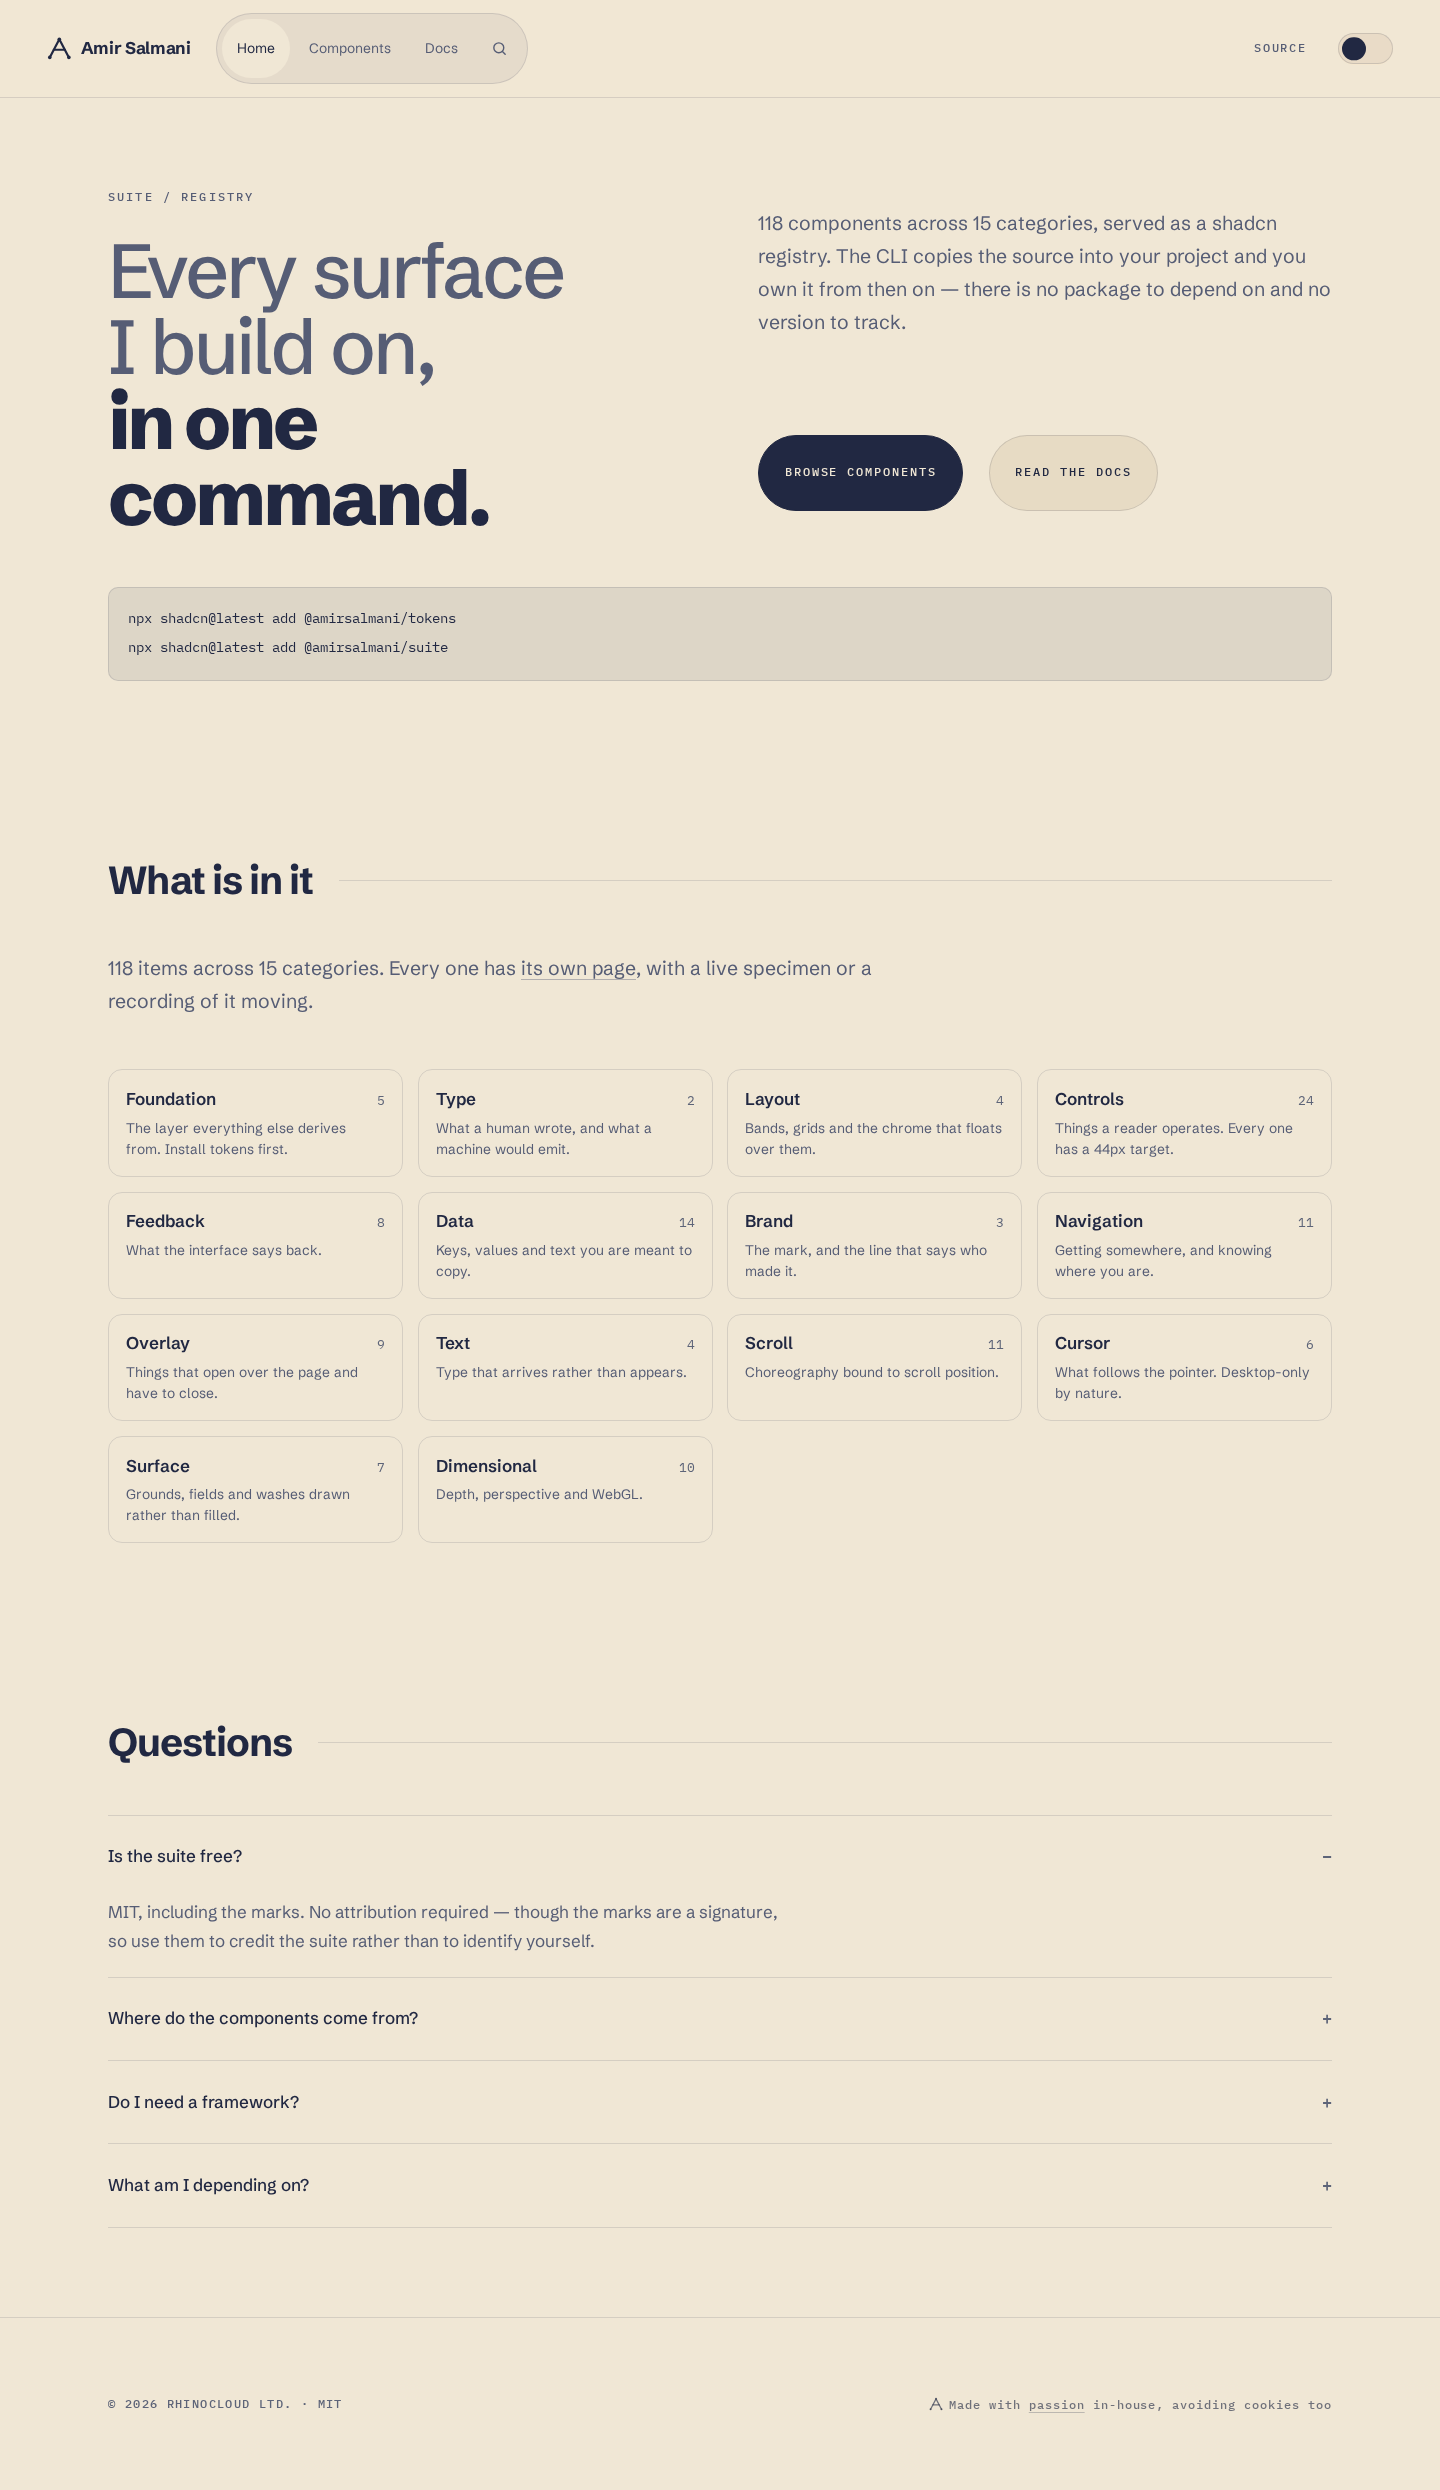
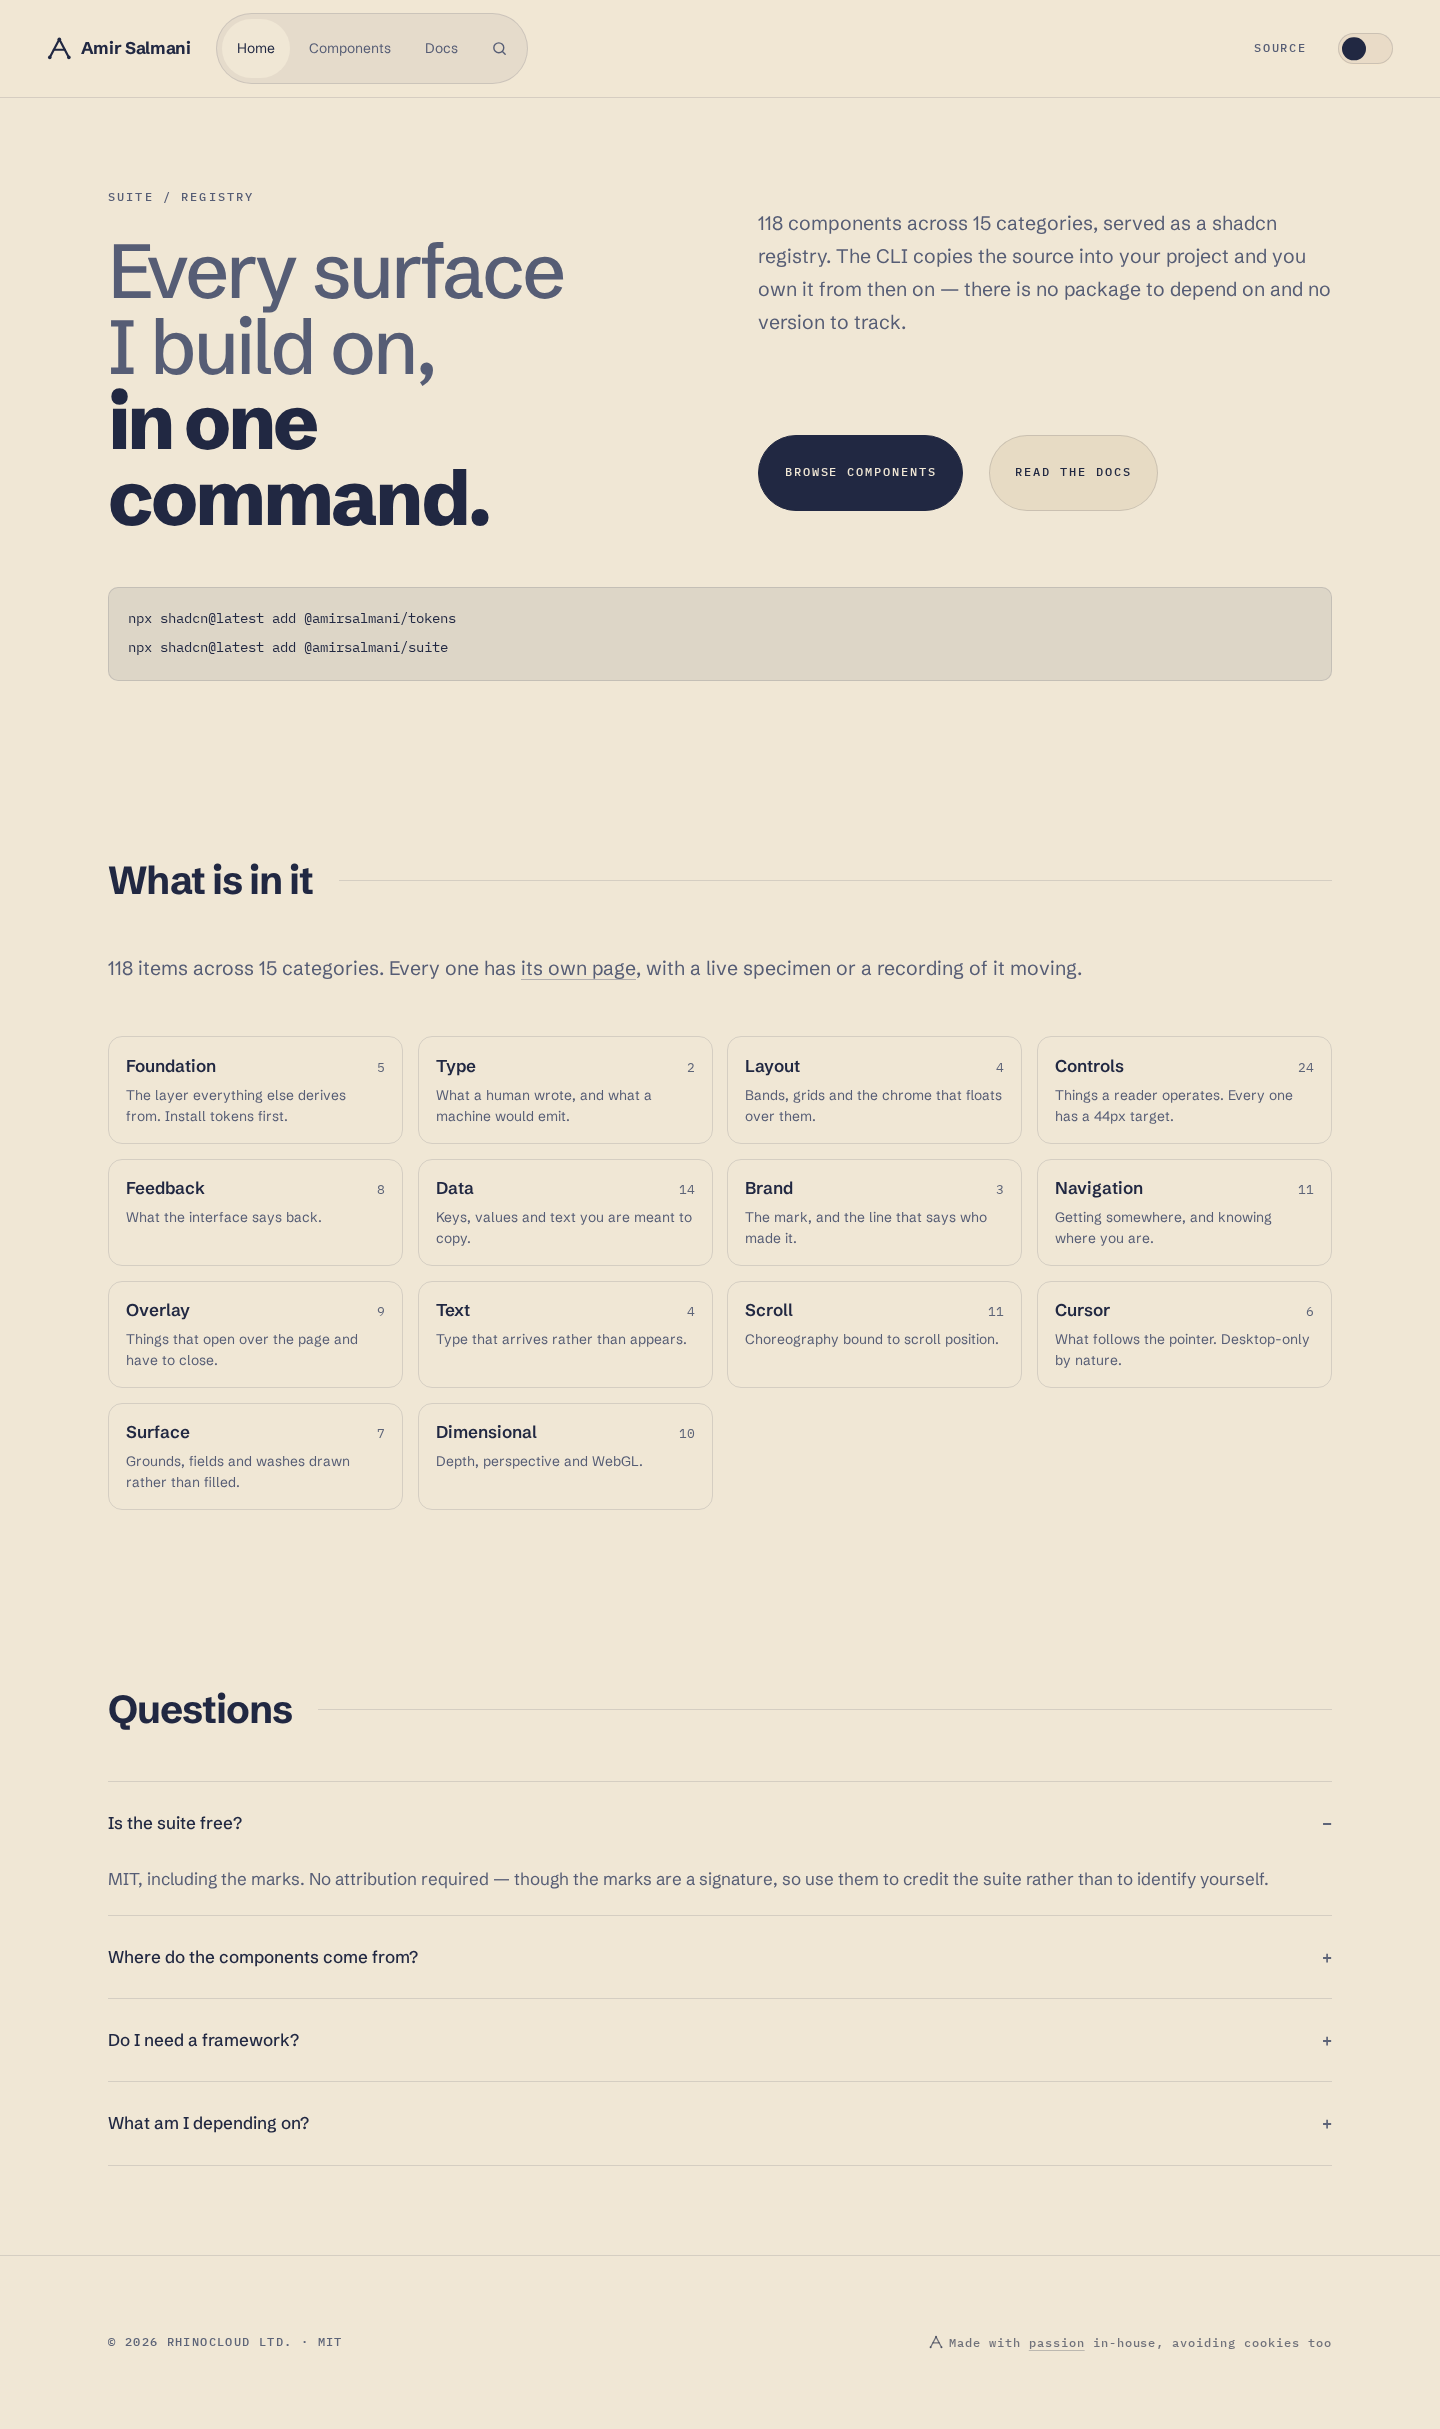
An audit for the class of bug that keeps being found by hand
tools/css-audit.mjs reads the built stylesheet against the built pages and
reports three things. Wired into npm run proof.

  conflict  one selector given the same property twice with different values.
            This is the stale-rule signature: a layout changes, the new rule is
            written, the old one is never removed, and the old one keeps
            winning. It found `.as-lede { max-width: 44ch }` in headline.css on
            its first run — a second cap of exactly the kind that had already
            cost two rounds of reporting the symptom.
  measure   a width cap on a text element.
  unused    a shell class no page carries, classified by where the rule is
            defined rather than by its name. An `as-` prefix looked like the
            same test and was not: band--alt and made-by--stacked ship and
            carry no prefix.

What it found, all now gone: two conflicts, four prose caps, eleven dead shell
rules, and 38 lines of generator that built a per-item section string — reading
all 25 demo files to do it — which nothing has used since the page was split.

BEHAVIOUR CHANGE, said out loud: `.as-lede` and `.as-empty__body` lose their
max-width. Both are shipped registry components, so anyone who installs them
gets prose that fills its container. That is the rule here and the caps were
never asked for.

diff --git a/src/components/empty.css b/src/components/empty.css
@@ -17,7 +17,7 @@
 }
 .as-empty__glyph { width: 2rem; height: 2rem; color: var(--fg-faint); }
 .as-empty__title { font-family: var(--sans); font-size: 1.0625rem; font-weight: 700; letter-spacing: -.015em; color: var(--fg); margin: 0; }
-.as-empty__body { color: var(--fg-muted); line-height: 1.7; max-width: 42ch; margin: 0; }
+.as-empty__body { color: var(--fg-muted); line-height: 1.7; margin: 0; }
 .as-empty__action { margin-top: var(--gap-xs); }
 
 @media (prefers-contrast: more) { .as-empty { border-color: var(--fg); border-style: solid; } }

diff --git a/src/components/headline.css b/src/components/headline.css
@@ -39,5 +39,4 @@
   font-size: clamp(1.02rem, 1.35vw, 1.175rem);
   line-height: 1.7;
   color: var(--fg-muted);
-  max-width: 44ch;
 }
